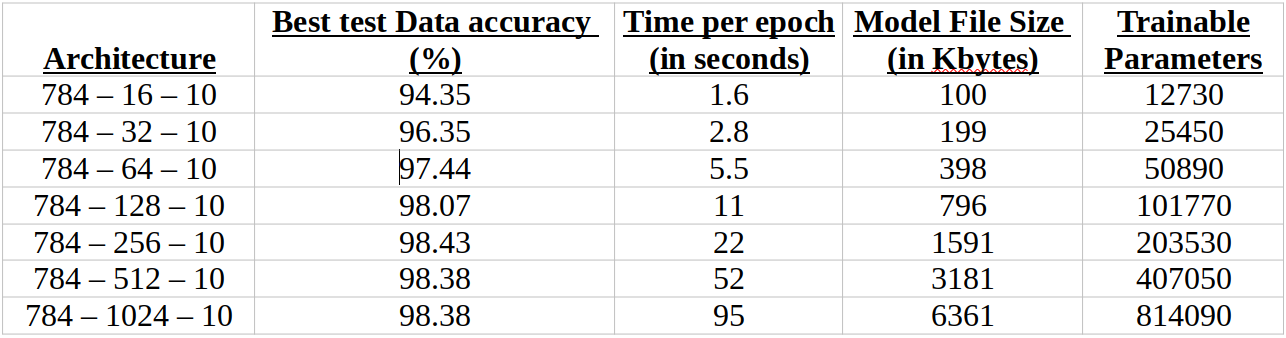
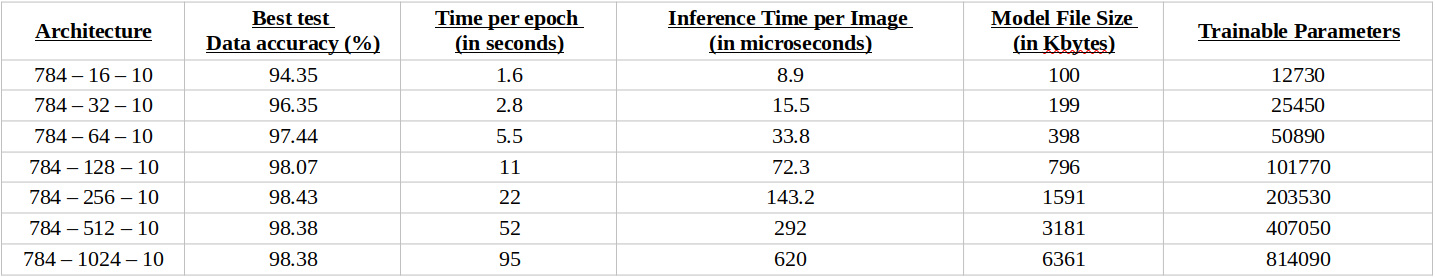
Updated README with new inference measurements and benchmark legend

diff --git a/README.md b/README.md
@@ -91,6 +91,15 @@ The table below shows results for various architectures with all other configura
 - Activation Function : Sigmoid
 - Range of initial weights random values : [-0.05,0.05]
 
+The columns outline the following characteristics for each experimental configuration
+
+- **Architecture** : the neural network's architecture.
+- **Best test  Data accuracy (%)** : the highest accuracy achieved with the current architecture. E.g. a value of 98.30% would mean that out of the 10000 test images, 9830 were accurately inferred as the right digit.
+- **Time per epoch  (in seconds)** : the time needed for a full pass through all 60000 images of the training data during the training process. Includes time needed for inferring the neural network through the 10000 test images to compute a test data accuracy %.
+- **Inference Time  (in microseconds)** : time needed to infer the class of a 28 * 28 image through the neural network. Does not include any kind of image preprocessing (e.g. rescaling or foreground/background segmentation). Does not include converting the image from a pixel, 8-bit unsigned integer format to a double representation in the range [0,1]. Only the predict() function runtime of the NeuralNetwork class in mlp_lib.hpp is measured.
+- **Model File Size  (in Kbytes)** : the size of the exported model file in Kbytes.
+- **Trainable Parameters** : the total number of weights and biases in the exported neural network.
+
 ![](images/benchmarks1.png)
 
 
